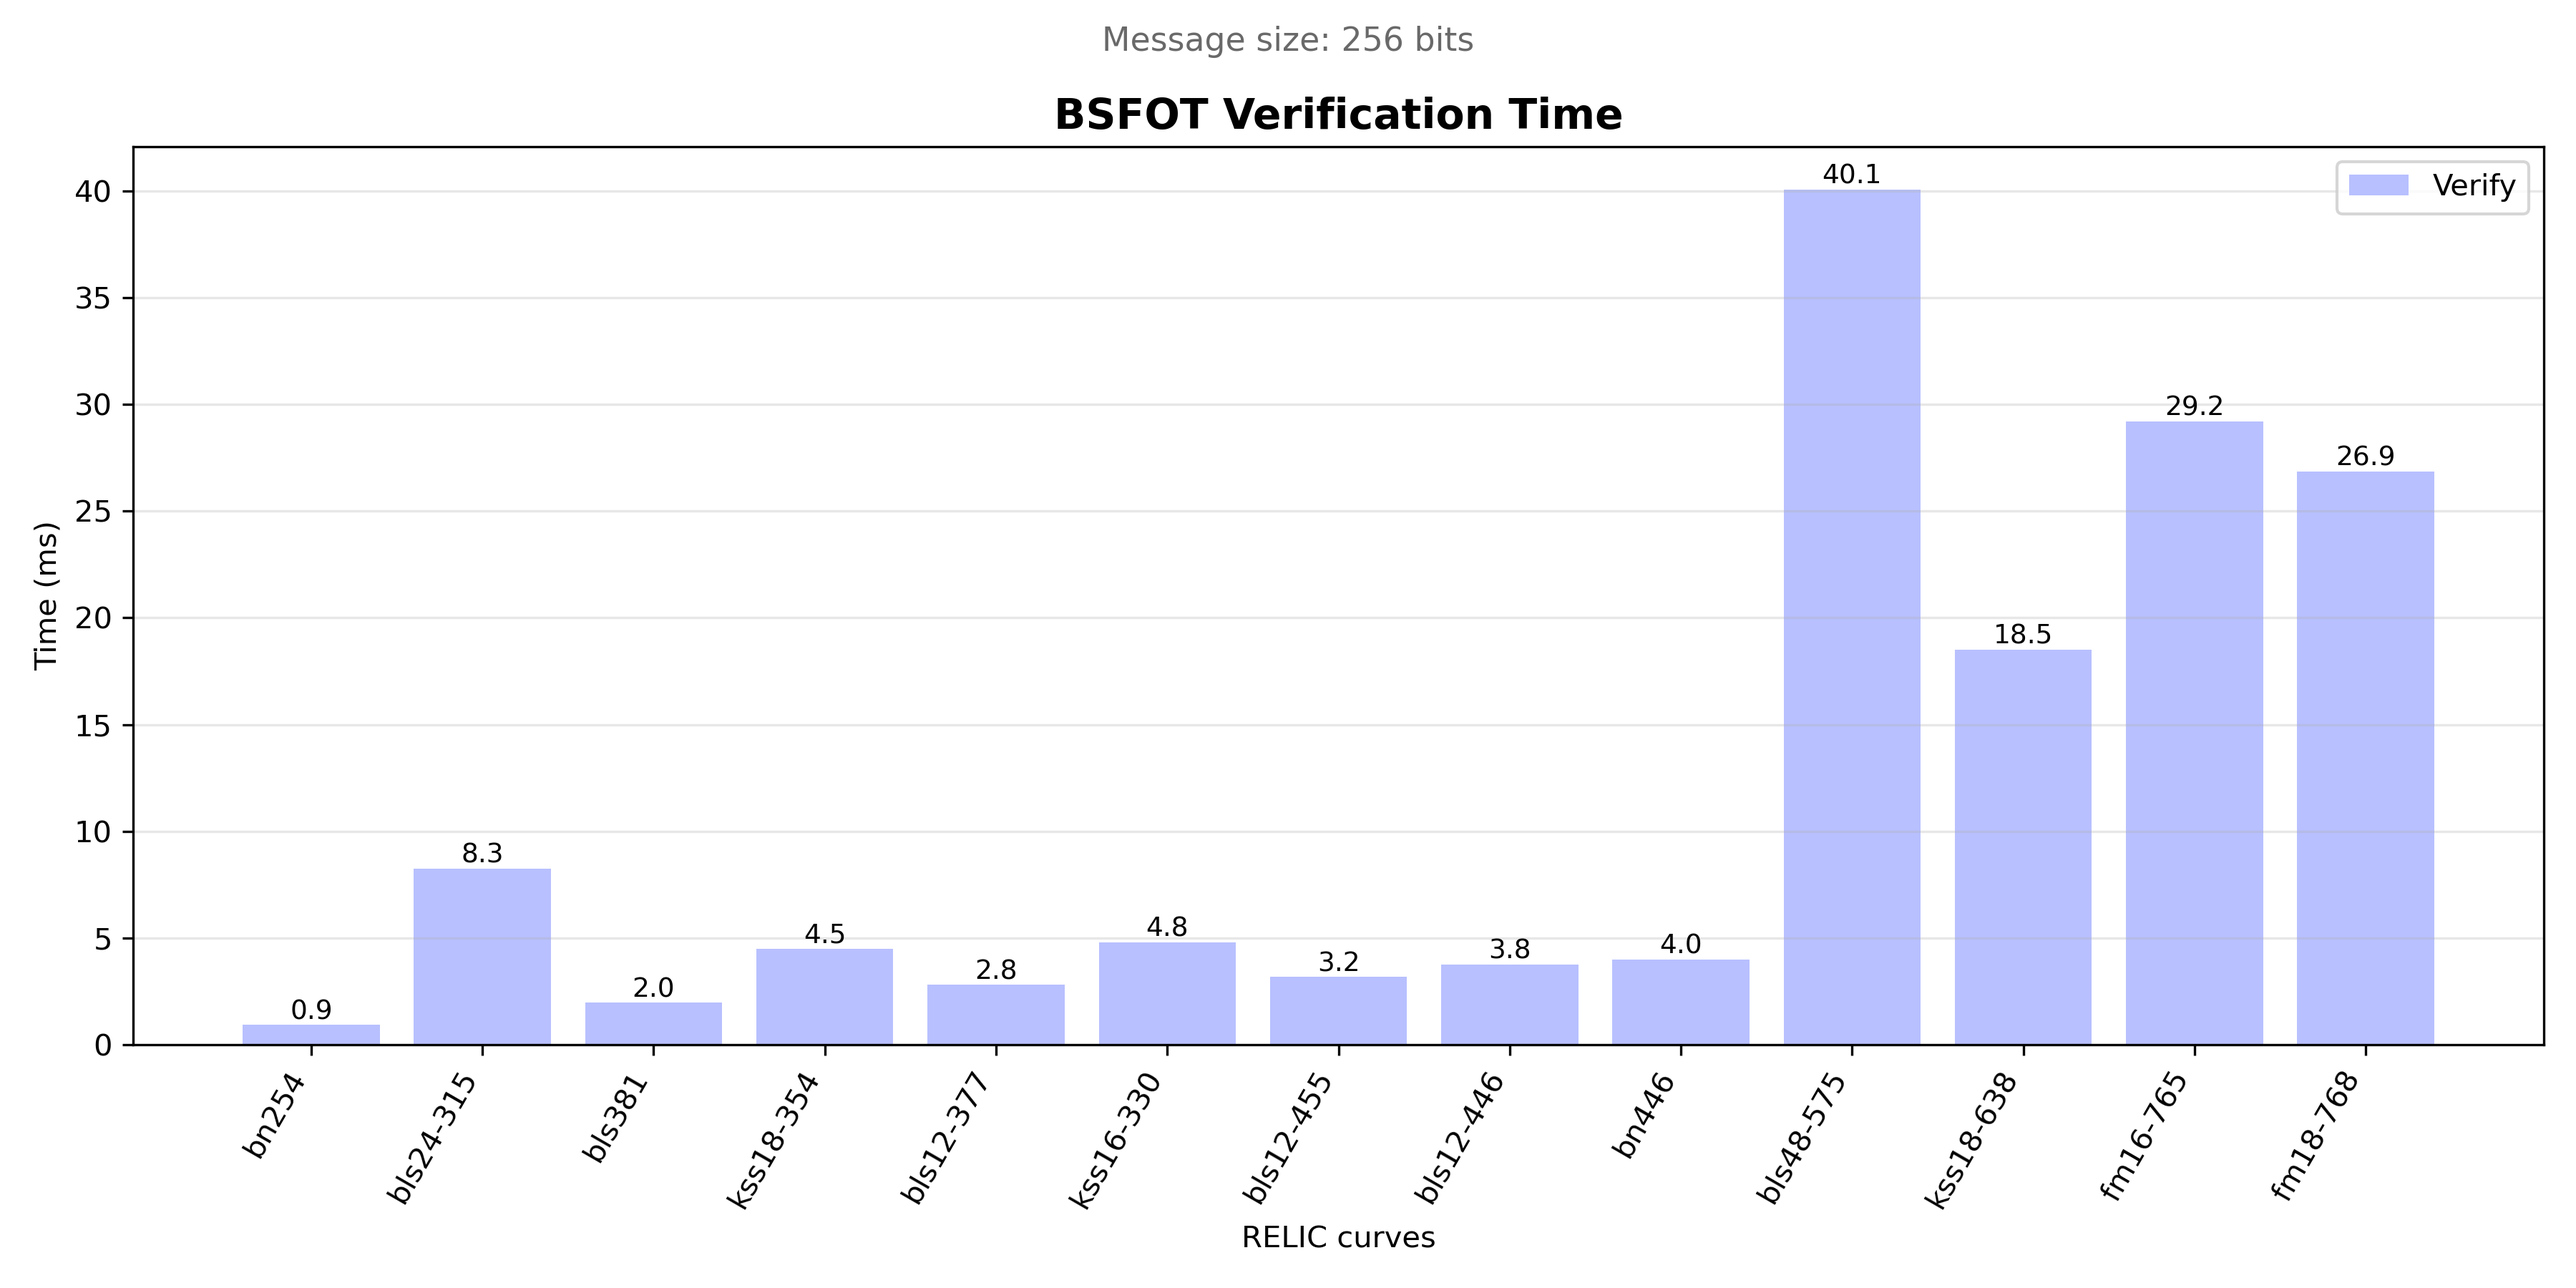
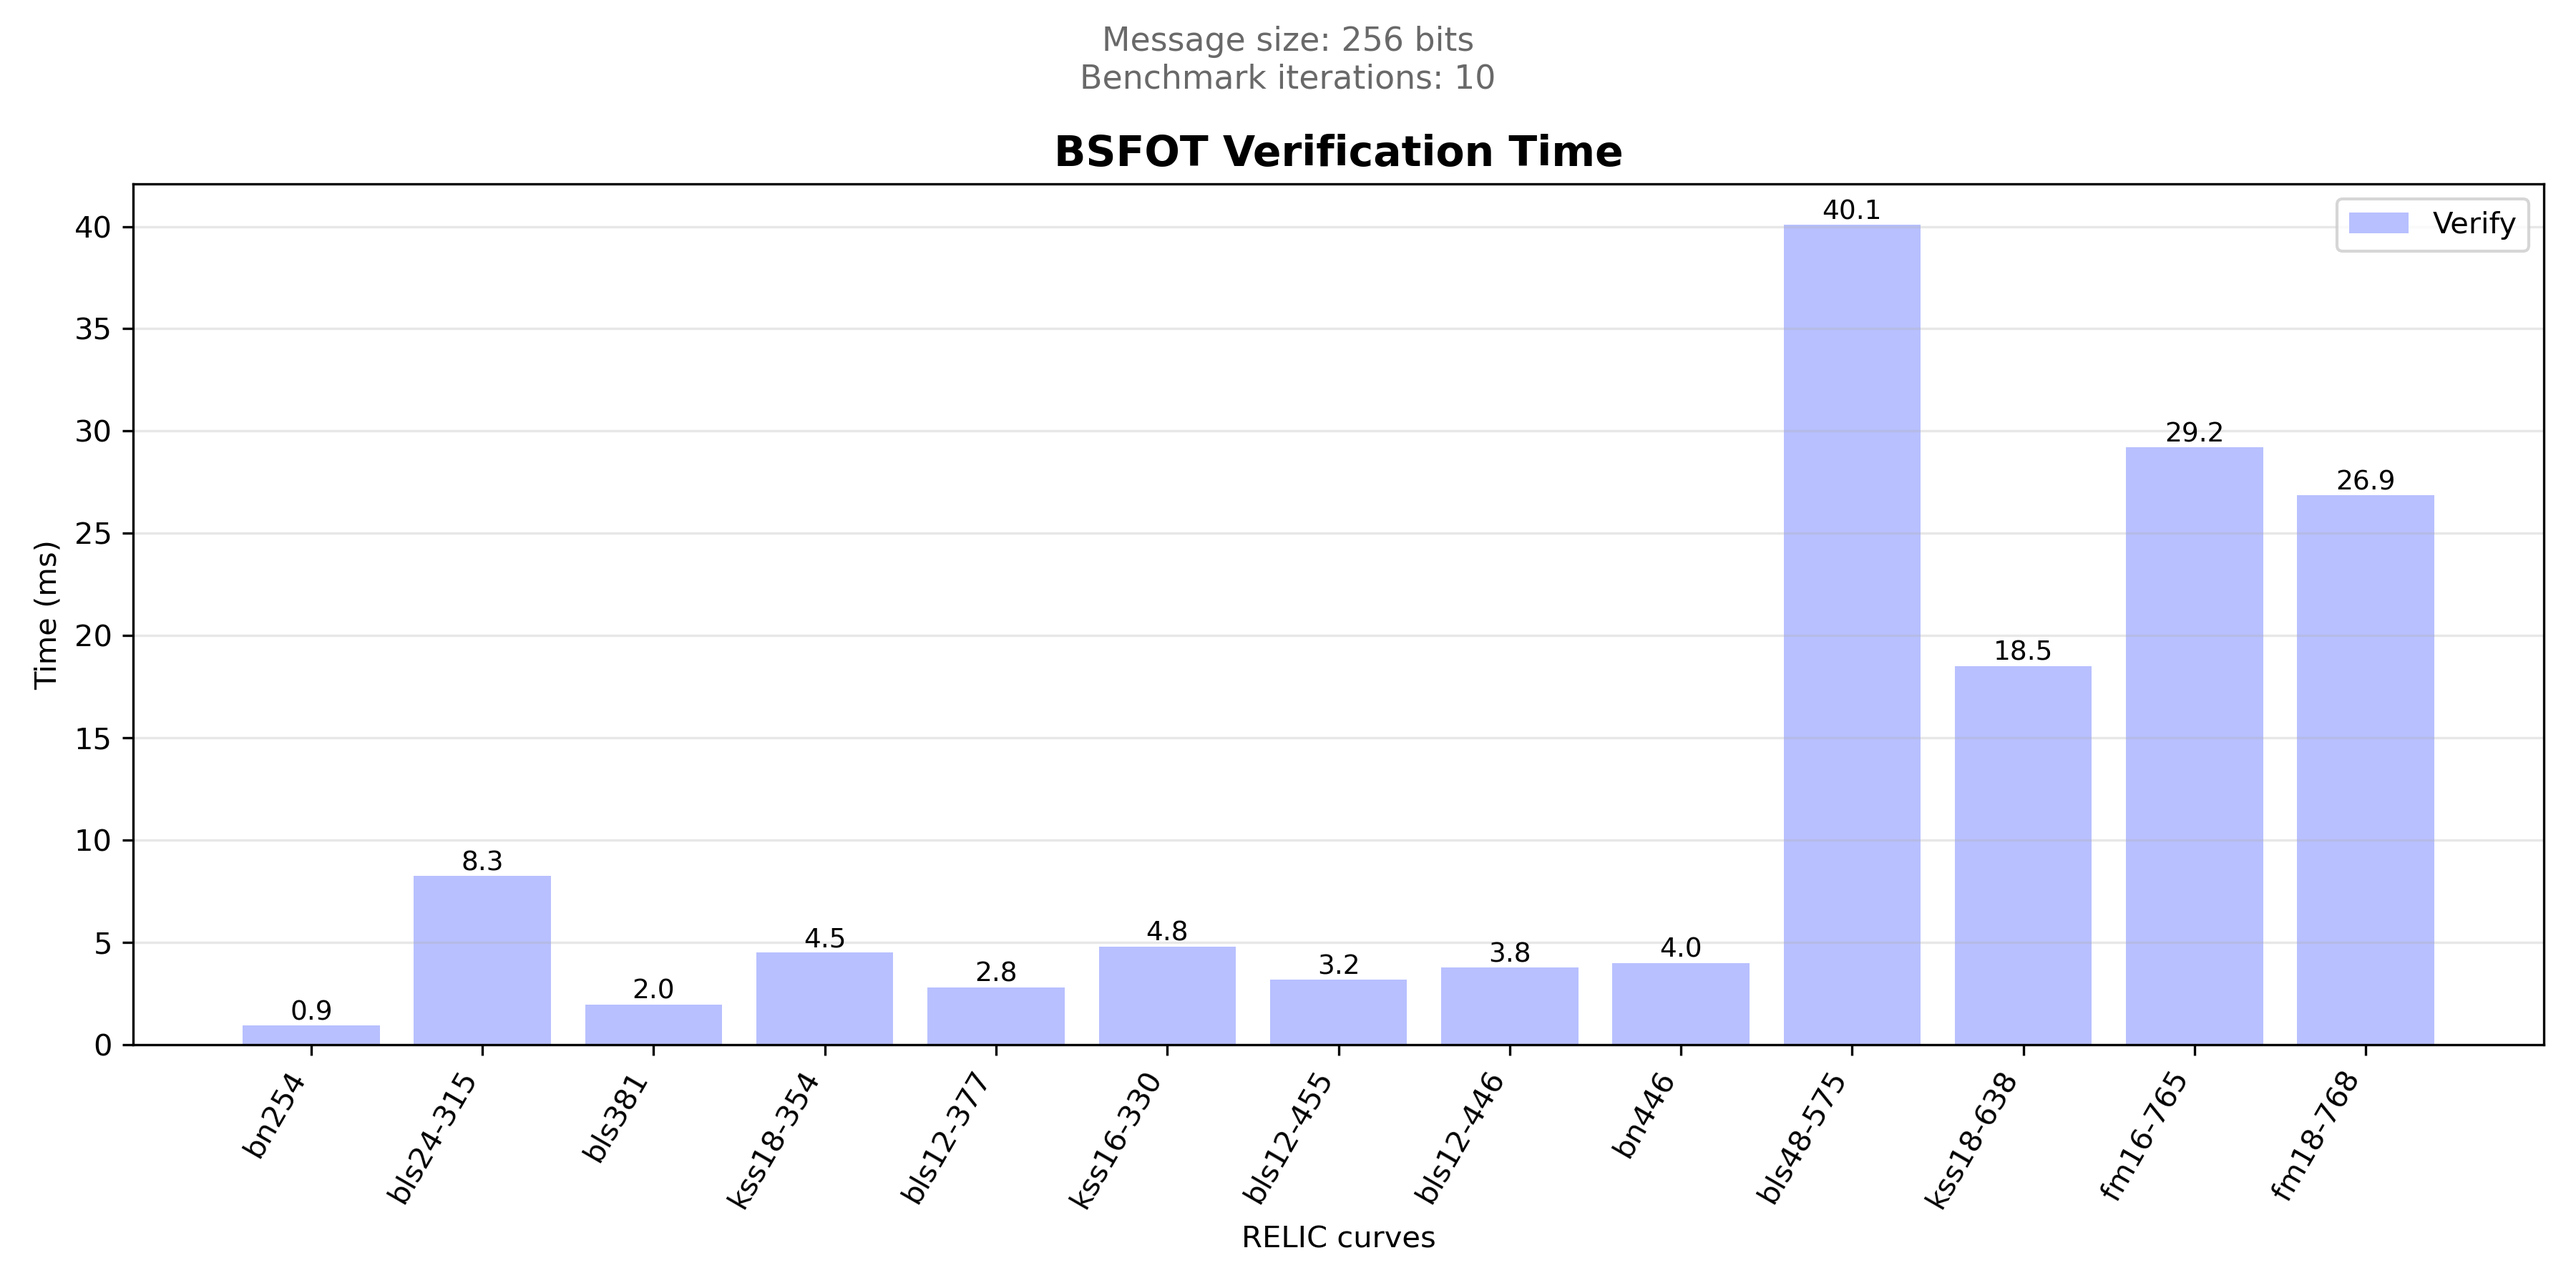
add benchmark iterations

diff --git a/bsfot/display.py b/bsfot/display.py
@@ -216,7 +216,8 @@ def plot_single_metric(results, metric, color, filename, title):
         )
 
     message_bits = next(iter(results.values())).get("Message", "?")
-
+    iterations = next(iter(results.values())).get("Iterations", "?")
+    
     plt.ylabel("Time (ms)")
     plt.xlabel("RELIC curves")
 
@@ -227,9 +228,10 @@ def plot_single_metric(results, metric, color, filename, title):
     )
 
     plt.suptitle(
-        f"Message size: {message_bits} bits",
-        fontsize=11,
-        color="dimgray"
+            f"Message size: {message_bits} bits\n"
+            f"Benchmark iterations: {iterations}",
+            fontsize=11,
+            color="dimgray"
     )
 
     plt.legend()
